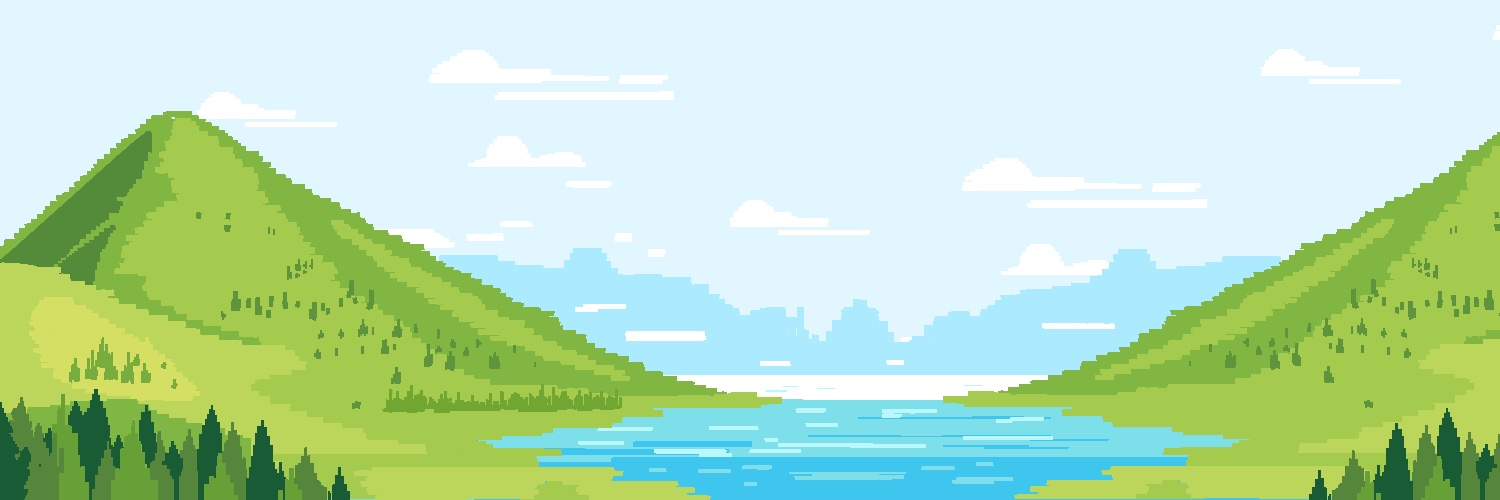
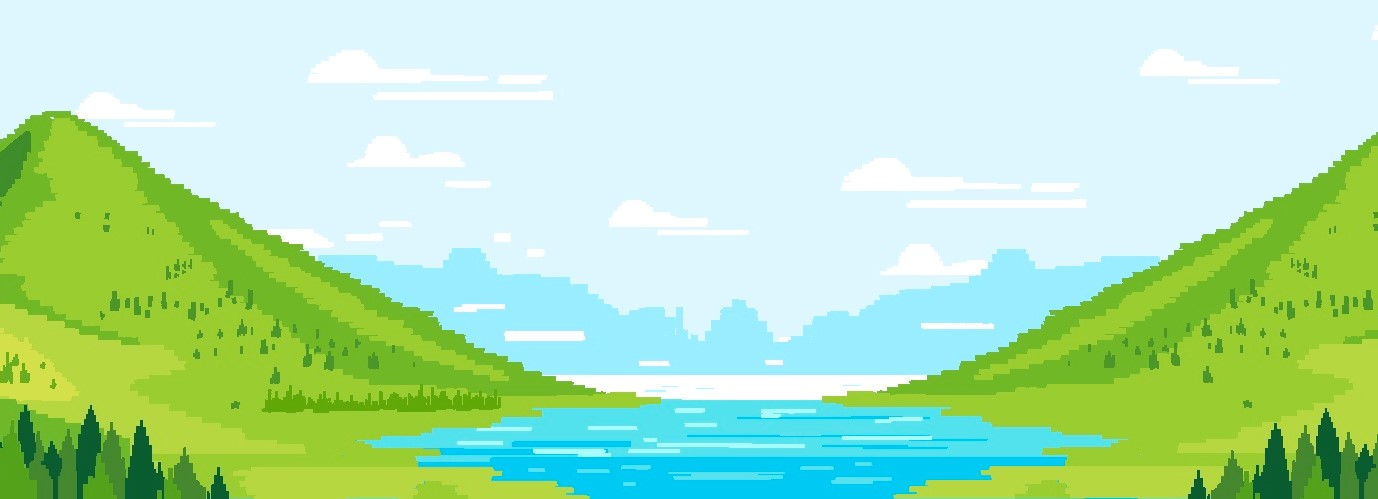
image bg

diff --git a/src/index.css b/src/index.css
@@ -30,8 +30,8 @@ body {
 }
 
 .home {
-  background-image: url("./assets/IMG_8336.JPG");
-  @apply h-screen w-screen bg-cover bg-no-repeat overflow-y-scroll overflow-x-hidden;
+  /* background-image: url("./assets/IMG_8336.JPG"); */
+  @apply h-screen w-screen bg-cover bg-no-repeat overflow-y-scroll overflow-x-hidden bg-center bg-[url("./assets/img/bgees.JPG")] md:bg-[url("./assets/IMG_8336.JPG")];
 }
 .navbar-link {
   @apply bg-green-500 text-white px-4 p-2 text-sm rounded-md uppercase font-bold;

diff --git a/src/pages/Home.jsx b/src/pages/Home.jsx
@@ -1,5 +1,6 @@
 import Navbar from "../components/Navbar";
-import Logo from "../assets/logo no frog.PNG";
+import Logo from "../assets/logo.PNG";
+// import Logo from "../assets/logo no frog.PNG";
 import HomeImageBottom from "../components/HomeImageBottom";
 
 const Home = () => {
